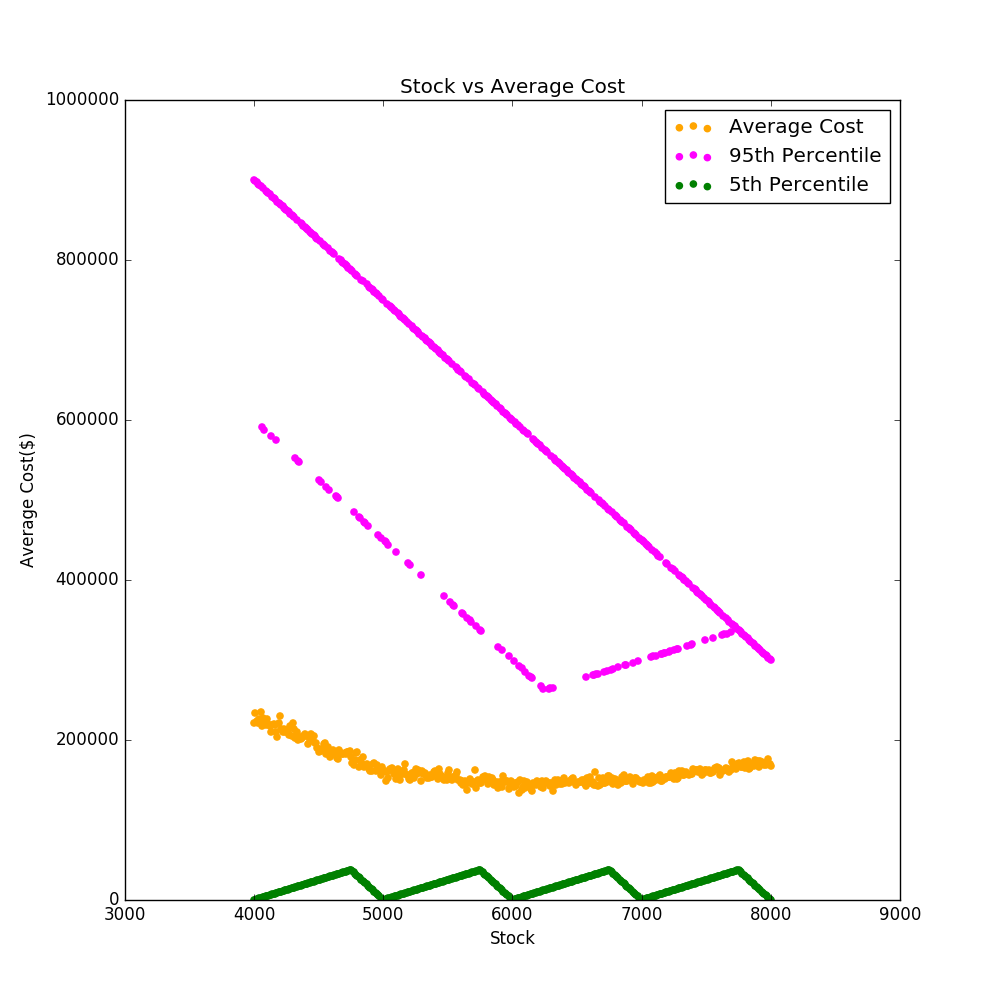
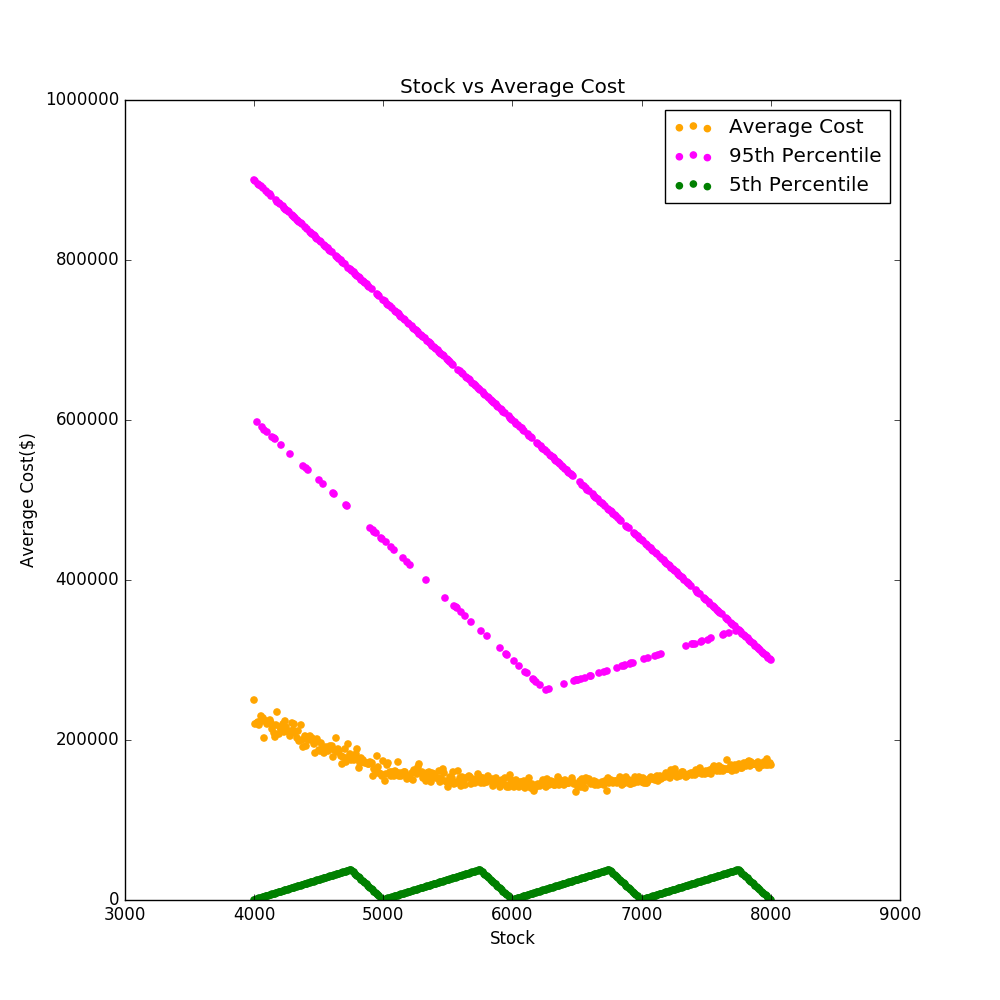
Minor changes

diff --git a/HealthCeuticals.py b/HealthCeuticals.py
@@ -66,16 +66,16 @@ def calc_cost(supply, demand, unit_cost_expiration, unit_cost_restock):
 	else:
 		return unit_cost_restock*(demand-supply)
 
-def find_percentile(parameter, ranks, n):
+def find_percentile(parameter, ranks, n): #function incorrect
 	r = n/100*(ranks + 1)
 	a = 0
 	b = 0
 	if r - int(r) > 0:
 		a = parameter[int(r)]
 		b = parameter[int(r)+1]
-		return r*(a-b)+a
+		return r*(b-a)+a
 	else:
-		return parameter(int(r))
+		return parameter[int(r)]
 
 # for i in range(0, 10000):
 # 	x = random.randint(4000,8001)
@@ -118,10 +118,6 @@ for i in range(4000, 8001, 10):
 	ra.append(np.percentile(dyn_cost, 95))
 	na.append(np.percentile(dyn_cost, 5))
 	za.append(cost_sum/j)
-
-#finding 95th percentile
-
-
 
 
 fig = plt.figure(figsize = (10, 10))
